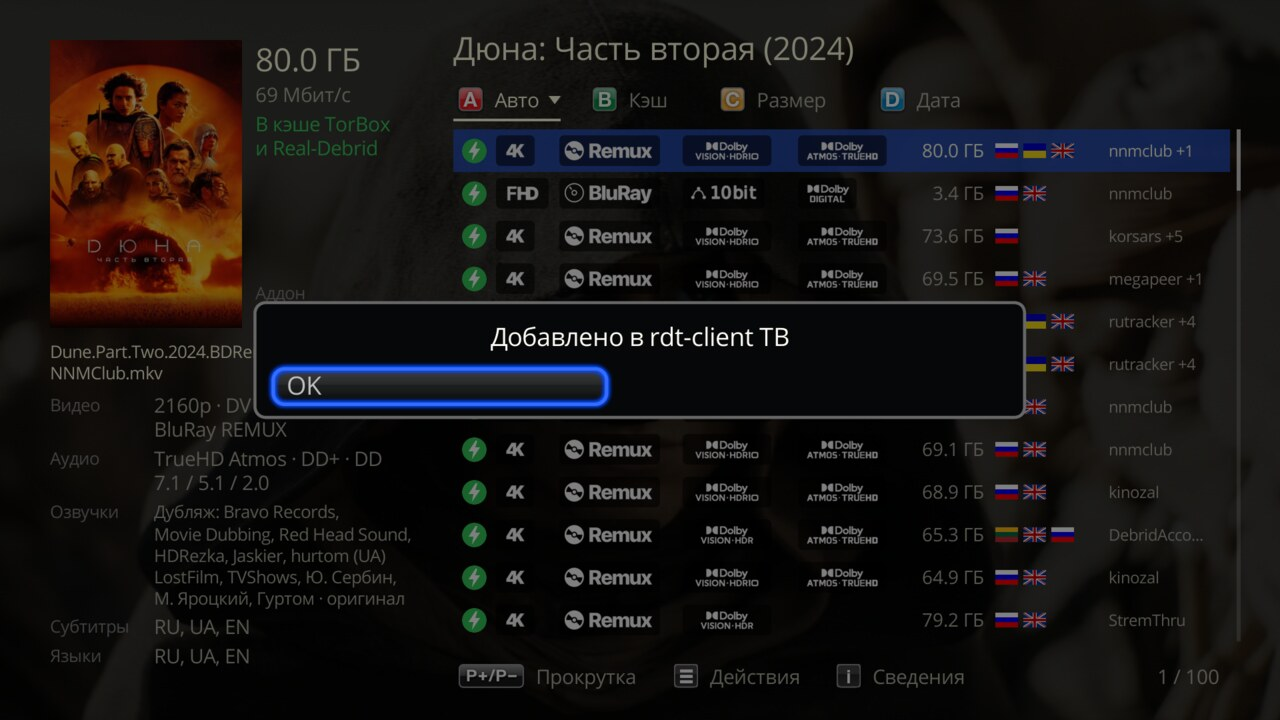
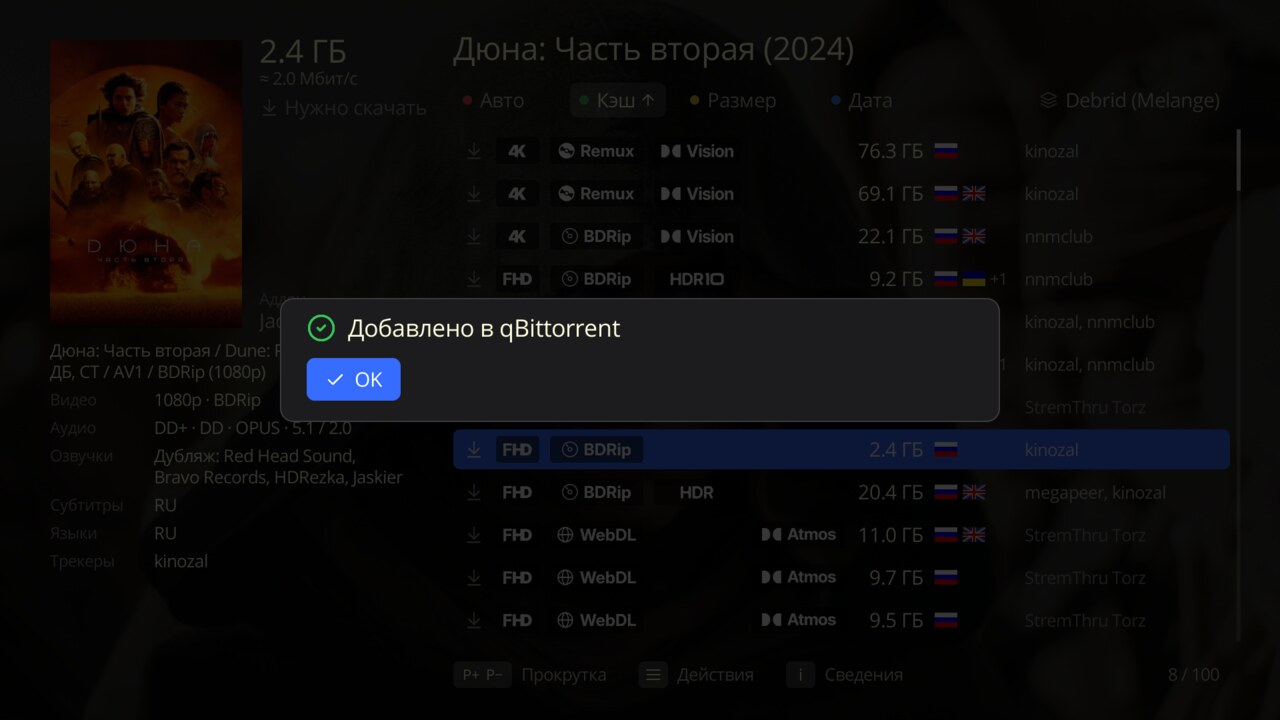
docs: refresh download-to-server screenshots and alt texts

diff --git a/docs/download-server.md b/docs/download-server.md
@@ -20,9 +20,9 @@
 
 4. Выберите сервер. Появится «Добавлено в <название>».
 
-   <img src="../screenshots/download-server-pick.jpg" alt="Панель «Скачать на сервер» со списком серверов: qBittorrent, rdt-client TB, rdt-client RD, Transmission MacOS; фокус на «rdt-client RD»" width="100%">
+   <img src="../screenshots/download-server-pick.jpg" alt="Панель «Скачать на сервер» со списком серверов: qBittorrent, rdt-client TB, rdt-client RD, Transmission MacOS; фокус на «qBittorrent»" width="100%">
 
-   <img src="../screenshots/download-server-added.jpg" alt="Сообщение «Добавлено в rdt-client TB» с кнопкой OK" width="100%">
+   <img src="../screenshots/download-server-added.jpg" alt="Сообщение «Добавлено в qBittorrent» с кнопкой OK" width="100%">
 
 Серверов несколько — в «Для кэша» выберите, какой брать для раздач из кэша Debrid.
 

diff --git a/docs/download-server.en.md b/docs/download-server.en.md
@@ -20,9 +20,9 @@ You need: a torrent client with its web UI turned on.
 
 4. Choose the server. You will see "Added to <name>".
 
-   <img src="../screenshots/download-server-pick.jpg" alt="The Download to server panel with the list of servers: qBittorrent, rdt-client TB, rdt-client RD, Transmission MacOS; focus on rdt-client RD" width="100%">
+   <img src="../screenshots/download-server-pick.jpg" alt="The Download to server panel with the list of servers: qBittorrent, rdt-client TB, rdt-client RD, Transmission MacOS; focus on qBittorrent" width="100%">
 
-   <img src="../screenshots/download-server-added.jpg" alt="Message Added to rdt-client TB with an OK button" width="100%">
+   <img src="../screenshots/download-server-added.jpg" alt="Message Added to qBittorrent with an OK button" width="100%">
 
 If you have several servers, choose in "For the cache of" which one to use for releases from the Debrid cache.
 
